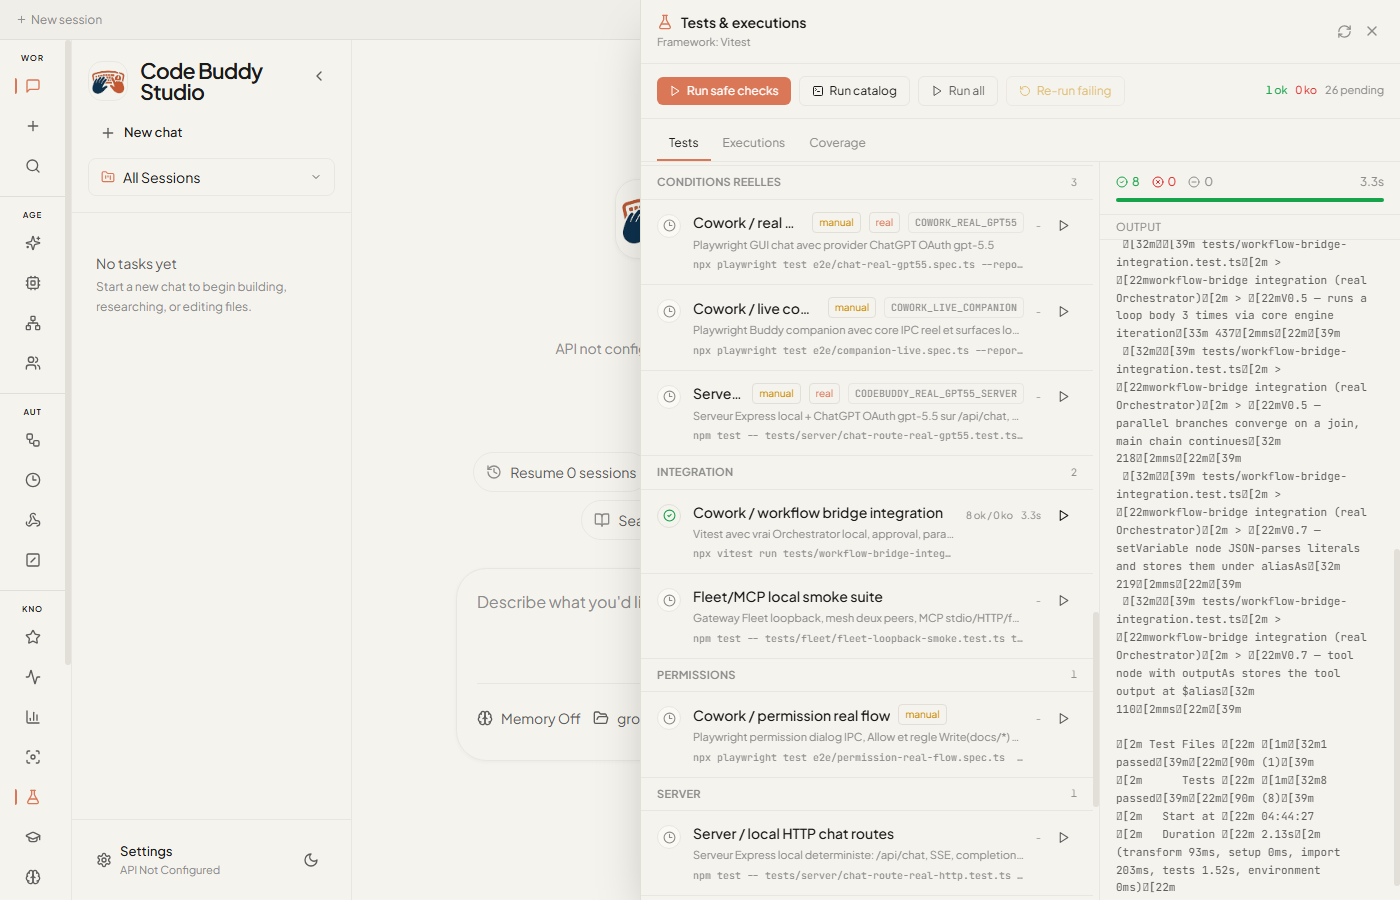
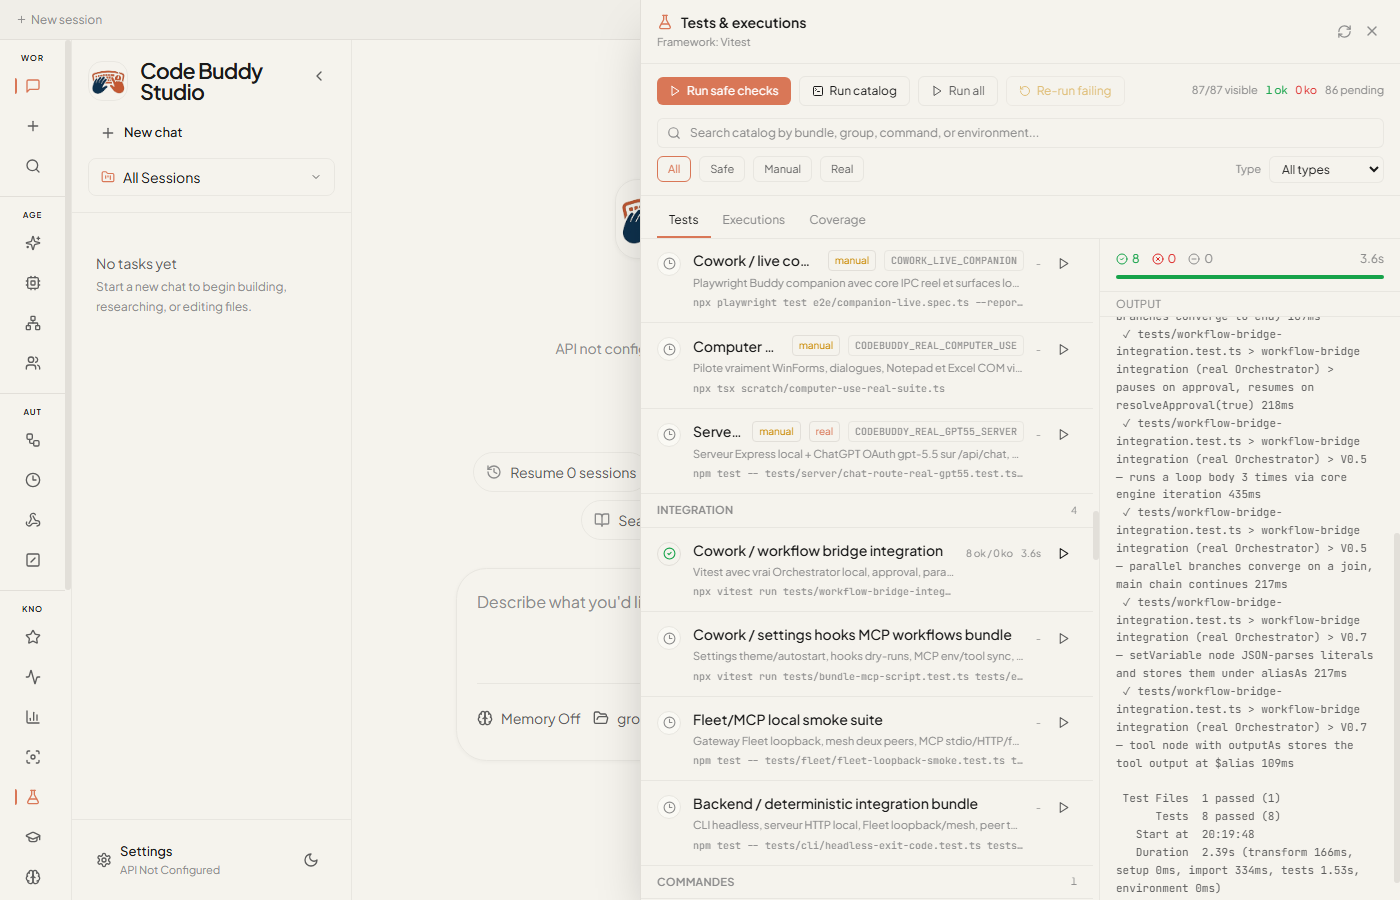
docs(cowork): refresh workflow QA capture
The workflow bridge runner evidence now reflects the current Cowork build after the typed node_reset work, and the public capture no longer exposes raw Vitest ANSI sequences in the output pane.

The Test Runner display strips ANSI only for renderer presentation; the main-process runner still receives and parses raw child-process output for result summaries. The Playwright evidence now asserts that the visible output is clean before taking the public screenshot.

Constraint: Public documentation screenshots need to stay readable and privacy-checked before publication.
Rejected: Keep the old screenshot after code changes | it was stale and showed raw terminal control codes in the user-facing panel.
Rejected: Strip ANSI in the main runner process | result parsing already handles raw output, and display cleanup is the narrower boundary.
Confidence: high
Scope-risk: narrow
Directive: When public screenshots come from TestRunnerPanel output, assert visible output quality in the E2E spec before writing the PNG.
Tested: cd cowork && npm run lint
Tested: cd cowork && npm run typecheck
Tested: cd cowork && npm test -- tests/test-runner-panel-filters.test.ts --run (4 tests)
Tested: cd cowork && npm run build:e2e
Tested: cd cowork && npx playwright test e2e/test-runner-workflow-integration.spec.ts --reporter=list --timeout=200000 (1 test, screenshot 54 regenerated)
Tested: npm run test:docs-public (56 tests)
Tested: git diff --cached --check
[…]

diff --git a/cowork/src/renderer/components/TestRunnerPanel.tsx b/cowork/src/renderer/components/TestRunnerPanel.tsx
@@ -463,6 +463,16 @@ function commandPreview(item: TestCatalogItem): string {
   return [item.command, ...item.args].join(' ');
 }
 
+function stripAnsi(text: string): string {
+  const esc = String.fromCharCode(27);
+  const csi = String.fromCharCode(155);
+  const ansiPattern = new RegExp(
+    `[${esc}${csi}][[()#;?]*(?:[0-9]{1,4}(?:;[0-9]{0,4})*)?[0-9A-ORZcf-nqty=><]`,
+    'g'
+  );
+  return text.replace(ansiPattern, '');
+}
+
 export function TestRunnerPanel({ isOpen, onClose }: TestRunnerPanelProps) {
   const { t } = useTranslation();
   const [framework, setFramework] = useState<string | null>(null);
@@ -554,7 +564,7 @@ export function TestRunnerPanel({ isOpen, onClose }: TestRunnerPanelProps) {
           break;
         case 'test.output': {
           const payload = event.payload as { stream: string; text: string };
-          setOutput((prev) => prev + payload.text);
+          setOutput((prev) => prev + stripAnsi(payload.text));
           break;
         }
         case 'test.complete':

diff --git a/cowork/tests/test-runner-panel-filters.test.ts b/cowork/tests/test-runner-panel-filters.test.ts
@@ -40,6 +40,12 @@ describe('TestRunnerPanel catalog filters', () => {
     expect(source).toContain('visible: filteredCatalog.length');
   });
 
+  it('strips ANSI control sequences before rendering runner output', () => {
+    const source = fs.readFileSync(panelPath, 'utf8');
+    expect(source).toContain('function stripAnsi(text: string): string');
+    expect(source).toContain('setOutput((prev) => prev + stripAnsi(payload.text))');
+  });
+
   it('ships localized filter labels for all supported locales', () => {
     for (const localePath of localePaths) {
       const locale = JSON.parse(fs.readFileSync(localePath, 'utf8')) as {

diff --git a/cowork/e2e/test-runner-workflow-integration.spec.ts b/cowork/e2e/test-runner-workflow-integration.spec.ts
@@ -46,6 +46,9 @@ test('runs the real workflow bridge integration suite from the test runner windo
     '8 ok / 0 ko',
     { timeout: 150_000 }
   );
+  const outputText = await appPage.getByTestId('test-runner-output').textContent();
+  expect(outputText ?? '').not.toContain('\u001b');
+  expect(outputText ?? '').not.toContain('[32m');
 
   await appPage.screenshot({
     path: path.resolve(

diff --git a/docs/qa/code-buddy-studio/feature-qa.md b/docs/qa/code-buddy-studio/feature-qa.md
@@ -71,7 +71,7 @@ Verification complementaire :
 - Bundle config/auth/provider depuis le runner : `npm test -- tests/auth/profile-manager.test.ts tests/auth/oauth/manager.test.ts tests/auth/oauth/model-profiles.test.ts tests/doctor/chatgpt-oauth-check.test.ts tests/providers/codex-oauth.test.ts tests/providers/codex-oauth-e2e.test.ts tests/codebuddy/providers/provider-openai-compat-hooks.test.ts tests/codebuddy/providers/provider-chatgpt-responses.test.ts tests/codebuddy/providers/provider-gemini-cli.test.ts tests/codebuddy/client-stream-retry.test.ts tests/codebuddy/client-gemini-vision.test.ts tests/config/resolve-model.test.ts tests/config/model-registry.test.ts tests/config/model-pricing.test.ts tests/config/model-defaults.test.ts tests/config/migration.test.ts tests/config/env-schema.test.ts tests/config/config-resolver.test.ts tests/config/agent-defaults.test.ts tests/config-validator.test.ts tests/toml-config.test.ts tests/unit/config.test.ts tests/unit/config-loader.test.ts tests/unit/config-migrator.test.ts tests/unit/config-mutator.test.ts tests/unit/jsonc-config.test.ts tests/unit/provider-command.test.ts tests/unit/provider-manager.test.ts tests/unit/providers.test.ts tests/unit/models.test.ts tests/unit/models-snapshot.test.ts --run` OK (31 fichiers, 849 tests), `npx playwright test e2e/test-runner-config-auth-provider-bundle.spec.ts --reporter=list --timeout=320000` OK. La ligne `Config / auth provider bundle` lance depuis l'UI profile manager, OAuth, doctor ChatGPT, hooks providers, model registry/pricing/defaults, TOML/JSONC config et mutators avec `849 ok / 0 ko`. Capture `82-test-runner-config-auth-provider-bundle.png`.
 - Bundle data/session/sync/cache depuis le runner : `npm test -- tests/database.test.ts tests/kv-cache-config.test.ts tests/persistence/session-lock.test.ts tests/persistence/conversation-branches.test.ts tests/sync/cloud-sync.test.ts tests/unit/sync.test.ts tests/unit/sync-persistence.test.ts tests/unit/sync-bindings.test.ts tests/unit/session-timeline.test.ts tests/unit/session-store.test.ts tests/unit/session-replay.test.ts tests/unit/session-export.test.ts tests/unit/session-export-formats.test.ts tests/unit/session-enhancements-update-channel.test.ts tests/unit/session-cleanup.test.ts tests/unit/database-layer.test.ts tests/unit/cloud-storage-factory.test.ts tests/unit/response-cache.test.ts tests/unit/prompt-cache.test.ts tests/unit/cache.test.ts tests/unit/distributed-cache.test.ts tests/utils/cache.test.ts tests/utils/lru-cache.test.ts tests/optimization/prompt-cache.test.ts tests/fleet/peer-session-store.test.ts tests/scheduler/cron-session.test.ts tests/scheduler/cron-precheck-persistence.test.ts --run` OK (27 fichiers, 900 tests), `npx playwright test e2e/test-runner-data-session-sync-cache-bundle.spec.ts --reporter=list --timeout=320000` OK. La ligne `Data / session sync cache bundle` lance depuis l'UI database layer, sessions, branches, sync, peer session store, cron persistence, KV/cache, response cache, prompt cache et distributed cache avec `900 ok / 0 ko`. Capture `83-test-runner-data-session-sync-cache-bundle.png`.
 - Bundle serveur/API/MCP depuis le runner : `npm test -- tests/server/api-server.test.ts tests/server/auth.test.ts tests/server/middleware.test.ts tests/server/mobile.test.ts tests/server/native-engine-routes.test.ts tests/server/server-startup.test.ts tests/server/workflow-builder.test.ts tests/canvas/canvas-server.test.ts tests/unit/http-server.test.ts tests/unit/rest-server.test.ts tests/unit/ide-extensions-server.test.ts tests/lsp-server.test.ts tests/mcp/mcp-server.test.ts tests/mcp/mcp-agent-server.test.ts tests/mcp/client.test.ts tests/unit/mcp-client.test.ts tests/unit/mcp-server.test.ts tests/unit/mcp-oauth.test.ts tests/integrations/mcp-server.test.ts tests/integrations/json-rpc-server.test.ts --run` OK (20 fichiers, 702 tests), `npx playwright test e2e/test-runner-server-api-mcp-platform-bundle.spec.ts --reporter=list --timeout=320000` OK. La ligne `Server / API MCP platform bundle` lance depuis l'UI API server, auth, middleware, routes mobile/native, workflow builder, canvas, HTTP/REST, IDE server, LSP, MCP client/server/OAuth et JSON-RPC avec `702 ok / 0 ko`. Capture `84-test-runner-server-api-mcp-platform-bundle.png`.
-- Retest workflow depuis le runner : `npx vitest run tests/workflow-bridge-integration.test.ts --reporter=verbose` OK (1 fichier, 8 tests) puis `npx playwright test e2e/test-runner-workflow-integration.spec.ts --reporter=list --timeout=200000` OK. La ligne `Cowork / workflow bridge integration` relance donc bien le vrai `Orchestrator` local depuis l'UI et confirme `8 ok / 0 ko` apres l'extension du catalogue.
+- Retest workflow depuis le runner : relance du 2026-06-03T20:18:27+02:00 apres le typage `node_reset`, le reset visuel des noeuds de boucle et le nettoyage ANSI de la sortie runner. `npm run build:e2e` OK, puis `npx playwright test e2e/test-runner-workflow-integration.spec.ts --reporter=list --timeout=200000` OK (1 test Playwright). La ligne `Cowork / workflow bridge integration` relance donc bien le vrai `Orchestrator` local depuis l'UI et confirme `8 ok / 0 ko`; la capture publique `54-test-runner-workflow-integration.png` a ete regeneree avec une sortie lisible.
 - Usage approfondi des panneaux encore partiels : `npx playwright test e2e/panel-usage-depth.spec.ts --reporter=list` couvre Fleet add-peer, Team start modal, commandes personnalisees, hook shell dry-run et planification dans un profil Electron isole. Captures `34-fleet-team-used.png` et `35-automation-panels-used.png`.
 - Completion des 13 dernieres surfaces partielles : `npx playwright test e2e/feature-completion-depth.spec.ts --reporter=list` OK (4 tests). Le test manipule clipboard summary, orchestrateur, Fleet command center, favoris, activite, session insights, focus view, workflow editor/run, lecons, modele utilisateur, backlog spec, MCP playground et plugins. Captures `36-clipboard-orchestrator-fleet-used.png`, `37-knowledge-panels-used.png`, `38-review-backlog-used.png`, `39-connectors-plugins-used.png`.
 - Verification navigateur integre `http://127.0.0.1:4177/` : `test-runner-button` ouvre la fenetre, l'onglet `Couverture` est cliquable et affiche `29` fonctionnalites, `3` reel, `26` utilise, `0` partiel. Capture `40-test-runner-zero-partial.png`.
@@ -184,7 +184,7 @@ Preuve compagnon live depuis l'UI : le test E2E opt-in clique la ligne `Cowork /
 
 ![Fenetre Tests & executions - compagnon live](./screenshots/53-test-runner-companion-live.png)
 
-Preuve workflow bridge depuis l'UI : le test E2E clique la ligne `Cowork / workflow bridge integration`, qui lance la vraie suite Vitest `workflow-bridge-integration.test.ts`. Cette suite utilise le vrai `Orchestrator` local et couvre un noeud tool end-to-end, l'ordre `workflow_started`, deux branches paralleles, approval pause/resume, boucle 3 iterations, join/convergence, `setVariable` et `outputAs`. Retest 04:48 : le test direct confirme 8 tests OK et la relance depuis la fenetre integree confirme `passed` et `8 ok / 0 ko`.
+Preuve workflow bridge depuis l'UI : le test E2E clique la ligne `Cowork / workflow bridge integration`, qui lance la vraie suite Vitest `workflow-bridge-integration.test.ts`. Cette suite utilise le vrai `Orchestrator` local et couvre un noeud tool end-to-end, l'ordre `workflow_started`, deux branches paralleles, approval pause/resume, boucle 3 iterations, join/convergence, `setVariable` et `outputAs`. Relance 2026-06-03T20:18:27+02:00 : `npm run build:e2e` passe, puis le test Playwright Electron integre confirme `passed` et `8 ok / 0 ko` avec une sortie sans codes ANSI visibles, et regenere cette capture.
 
 ![Fenetre Tests & executions - workflow bridge](./screenshots/54-test-runner-workflow-integration.png)
 